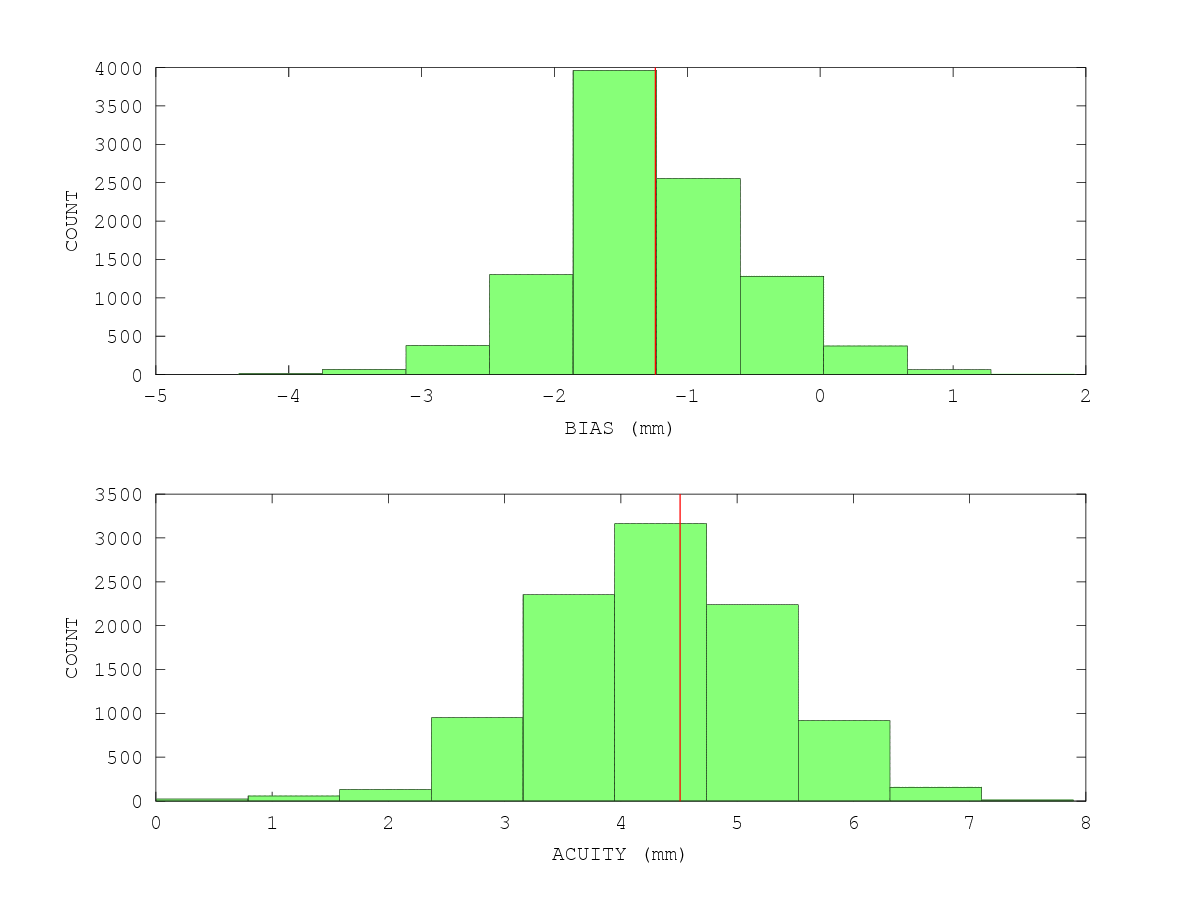
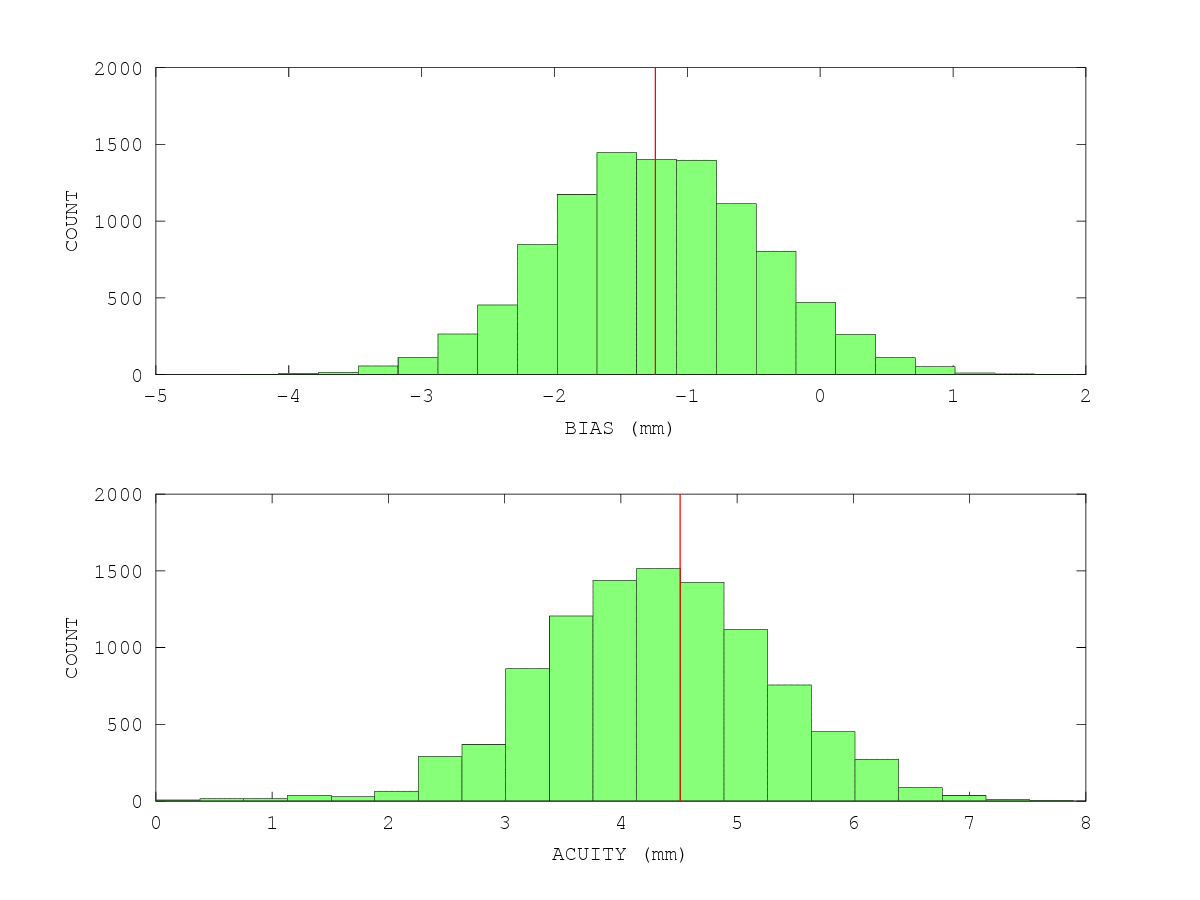
plot

diff --git a/README.md b/README.md
@@ -72,13 +72,13 @@ You can have a look at the bootstrap distributions of the parameters like so: he
 	load exdata_dist
 	figure
 	subplot(2,1,1)
-	hist(exdata_dist(:,3))
+	hist(exdata_dist(:,3),21)
 	xlabel('BIAS (mm)')
 	ylabel('COUNT')
 	load exdata_params
 	line([exdata_params(3) exdata_params(3)],get(gca,'ylim'),'color','r','linewidth',2)
 	subplot(2,1,2)
-	hist(exdata_dist(:,7))
+	hist(exdata_dist(:,7),21)
 	xlabel('ACUITY (mm)')
 	ylabel('COUNT')
 	line([exdata_params(7) exdata_params(7)],get(gca,'ylim'),'color','r','linewidth',2)
